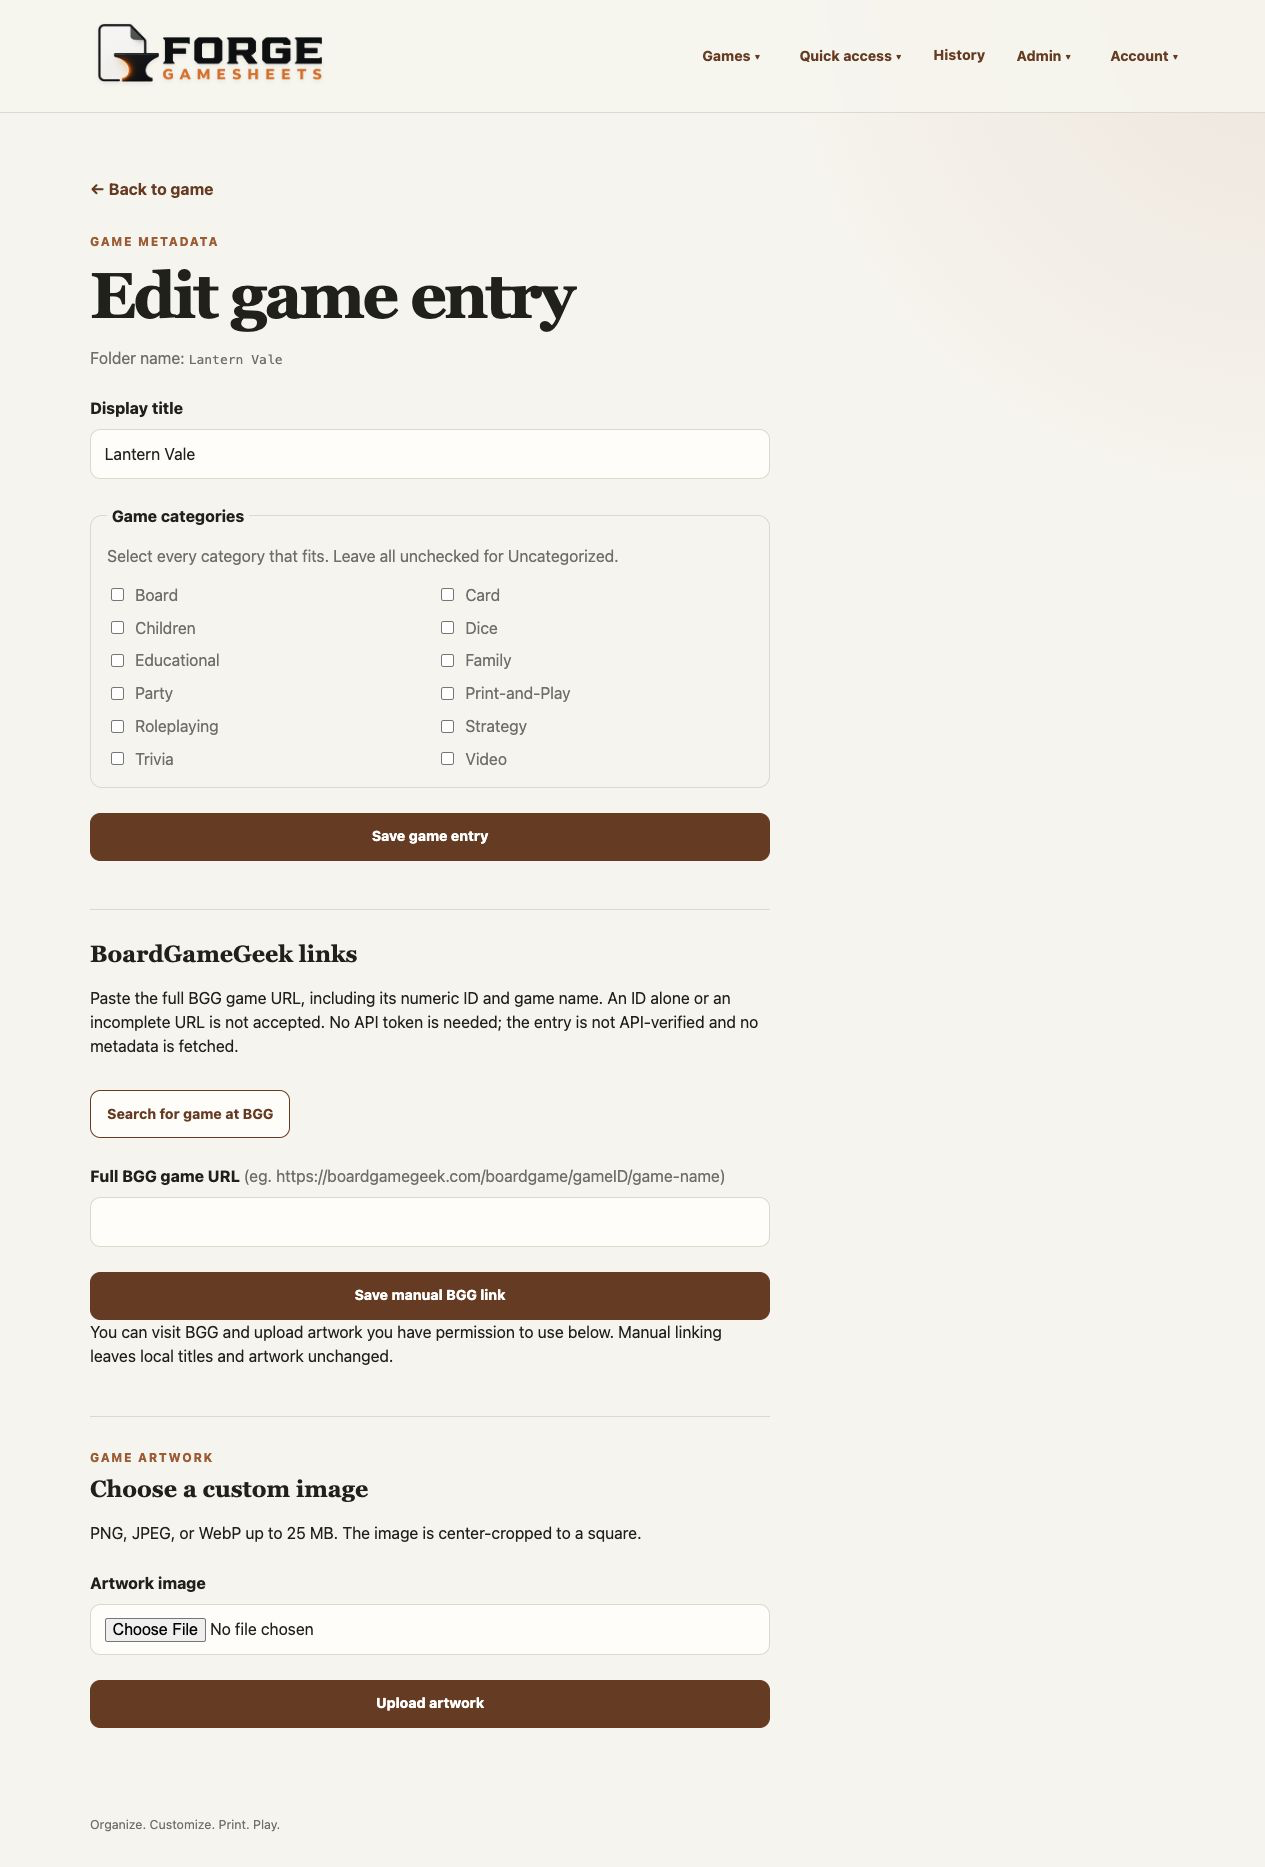
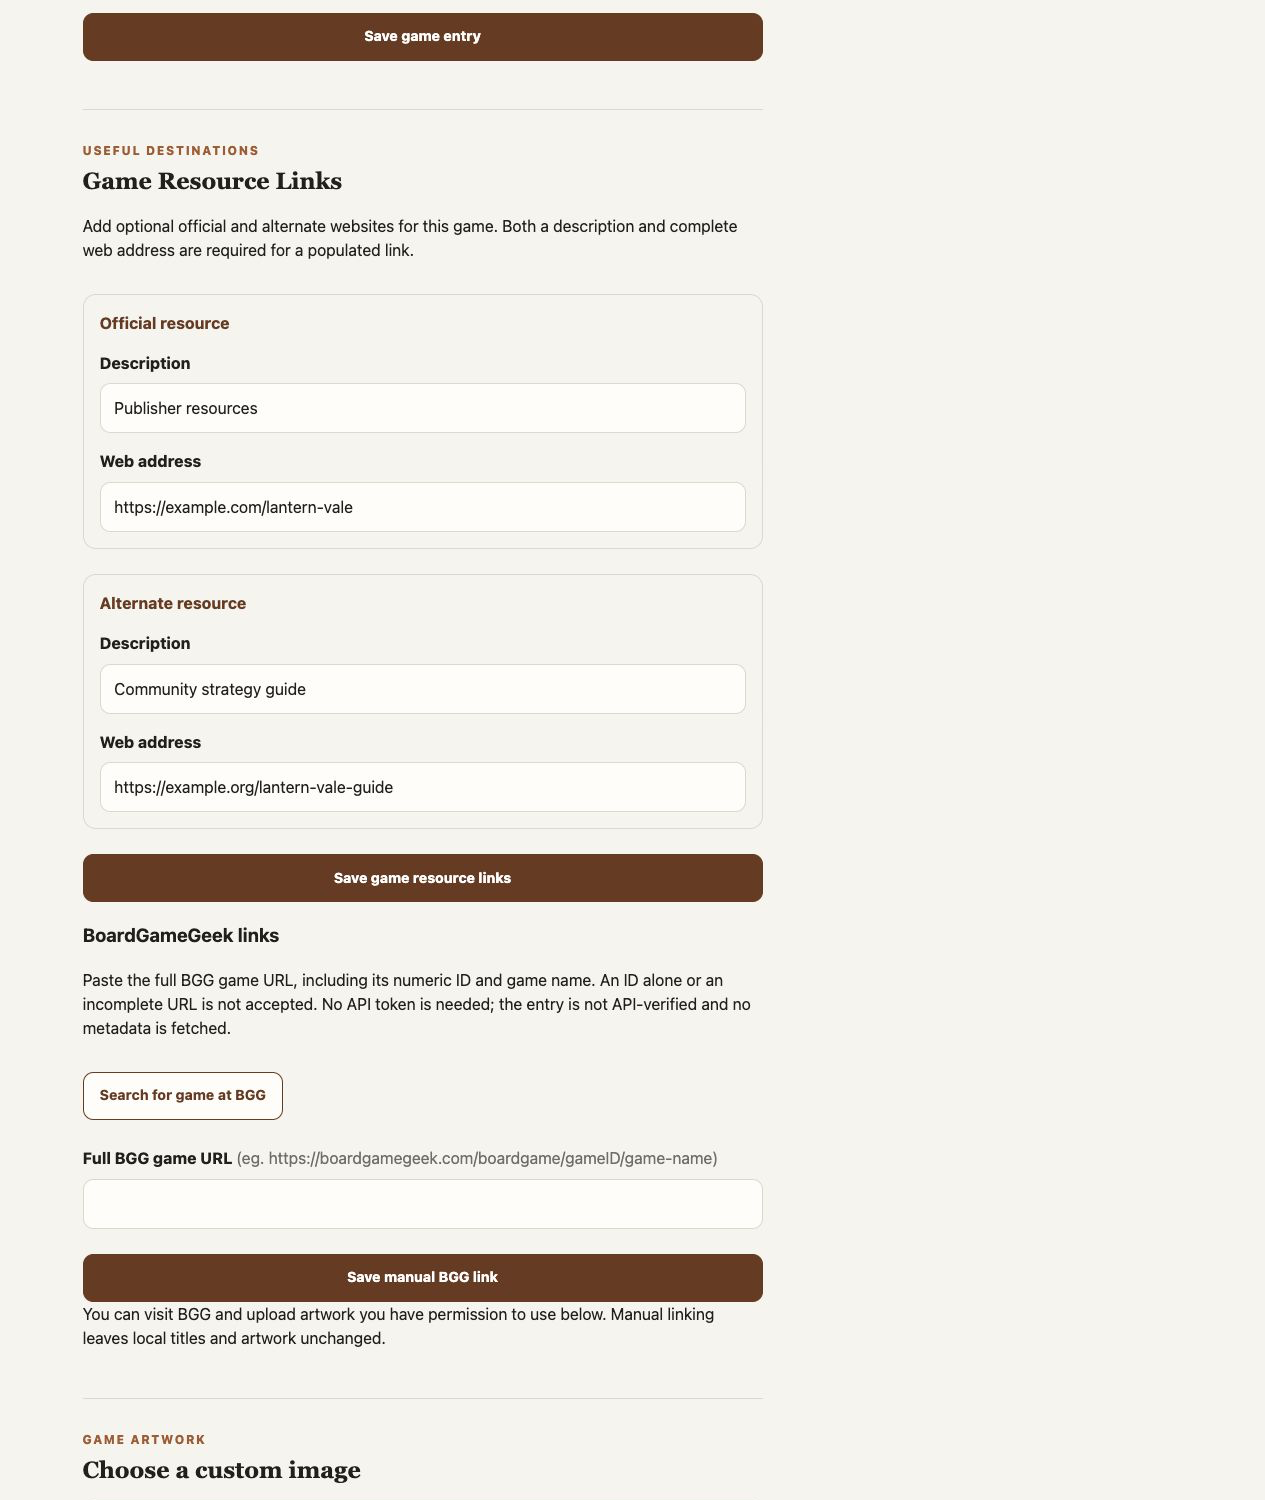
Refresh README workflow screenshots

diff --git a/tests/test_documentation.py b/tests/test_documentation.py
@@ -86,13 +86,14 @@ def test_readme_gallery_images_are_valid_and_cover_current_workflows():
     text = (ROOT / "README.md").read_text()
     gallery = text.split("## Screenshots", 1)[1].split("## Requirements", 1)[0]
     images = set(re.findall(r"docs/images/[\w-]+\.png", gallery))
-    assert len(images) == 9
+    assert len(images) == 10
     for name in (
         "users",
         "assign-categories",
         "bgg-manual",
         "desktop-navigation",
         "reprint-maintenance",
+        "activity-history",
     ):
         assert f"docs/images/{name}.png" in images
     for path in images:

diff --git a/README.md b/README.md
@@ -36,7 +36,8 @@ a cloud service, or store PDF contents in its database.
 - Optional local Admin, Contributor, and Reader accounts with per-resource QR restrictions
 - Token-free manual BGG game URLs, Game/Files links, and external title search
 - All Games, category, and Uncategorized browsing
-- Favorites, up to ten pinned homepage resources, Recent, and use history
+- Favorites, up to ten pinned homepage resources, Recent, and paginated activity
+  history for scans, content changes, and PDF use
 - Configurable library footer, Recent limit, and History time zone
 - Manual rescans with safe partial-scan and missing-file behavior
 - Grouped desktop dropdowns and a compact-screen hamburger menu
@@ -52,17 +53,17 @@ and demo accounts. No private library content or third-party game files are
 included. These views show authentication enabled; available controls depend on
 the signed-in role. Click an image to inspect it at full size.
 
-| Library and categories | Game resources |
+| Library, pins, and categories | Game resources |
 | --- | --- |
 | ![Forge GameSheets library showing pinned resources and category cards](docs/images/library-overview.png) | ![An invented game's rules, score sheets, references, and resource actions](docs/images/game-resources.png) |
 | **Bulk game categories** | **Bulk FORGE Reprint maintenance** |
-| ![Selected demo games and categories with bulk operations and explanatory help](docs/images/assign-categories.png) | ![Admin utility showing current, missing, stale, and unavailable reprints with bulk operation choices](docs/images/reprint-maintenance.png) |
-| **User Accounts** | **Manual BoardGameGeek linking** |
-| ![Admin account controls explaining roles and account management](docs/images/users.png) | ![Token-free BGG search button and empty full-game-URL field](docs/images/bgg-manual.png) |
-| **Integration and build details** | **Grouped desktop navigation** |
-| ![Settings showing the optional API disabled and a local development build](docs/images/settings-build.png) | ![Admin dropdown with FORGE Reprints, Settings, and User Accounts](docs/images/desktop-navigation.png) |
-| **Mobile navigation** | |
-| <img src="docs/images/mobile-navigation.png" alt="Phone menu with Games, Quick access, History, Admin, and Account groups" width="200"> | |
+| ![Demo games with current categories and bulk assignment controls](docs/images/assign-categories.png) | ![Admin utility showing reprint inventory, guided bulk operations, and recent operation results](docs/images/reprint-maintenance.png) |
+| **User Accounts** | **Game Resource Links and BoardGameGeek** |
+| ![Admin account controls explaining roles and account management](docs/images/users.png) | ![Game editing with official and alternate resource links and manual BoardGameGeek linking](docs/images/bgg-manual.png) |
+| **Activity History** | **Integration and build details** |
+| ![Activity history showing summarized scans, content changes, favorites, pins, and PDF use](docs/images/activity-history.png) | ![Settings showing optional integration status and complete local build identification](docs/images/settings-build.png) |
+| **Grouped desktop navigation** | **Mobile navigation** |
+| ![Admin dropdown with FORGE Reprints, Settings, and User Accounts](docs/images/desktop-navigation.png) | <img src="docs/images/mobile-navigation.png" alt="Phone menu with Games, Quick access, History, Admin, and Account groups" width="200"> |
 
 The [screenshot maintenance guide](docs/SCREENSHOTS.md) records the capture
 procedure and review requirements. The former Settings and FORGE Reprint images
@@ -296,6 +297,11 @@ file, interruption recovery, and individual skip/failure details. Source PDFs ar
 never changed. Every generated copy uses its resource's stable QR address, so
 changing access does not require generating another QR code.
 
+Validated generated copies are recorded in SQLite, allowing the maintenance
+inventory to use fast database aggregation and a single directory scan instead
+of reopening every generated PDF on each visit. The first inventory visit after
+this upgrade performs a one-time compatibility pass for existing reprints.
+
 Upgrading from the earlier test-only secure-link design retires `/s/…` QR
 addresses. Use **Create or refresh all reprints** once after this upgrade to
 replace those experimental copies with the stable `/r/{resource-id}` address.
@@ -378,7 +384,9 @@ The library mount is read-only. Forge GameSheets never edits source PDFs.
   from the web UI is not implemented; artwork upload is available to editors.
 - **Audit visibility:** Admins can review recent account security events
   with actor and target names. This is bounded activity logging, not a complete
-  audit trail.
+  audit trail. General Activity History is retained in SQLite and displayed 50
+  events at a time; each library scan creates one aggregate event rather than
+  one event per discovered file.
 
 Implementation review and publication safeguards are described separately in
 [Development and security](#development-and-security).

diff --git a/docs/SCREENSHOTS.md b/docs/SCREENSHOTS.md
@@ -2,16 +2,17 @@
 
 ## Current set
 
-Captured September 8, 2026 from application revision `00381e8`, with only pending
-documentation edits. The demo uses invented games (Lantern Vale, Pebble Parade,
+Captured September 11, 2026 from the local application at revision
+`6eaab8a-dirty`. The demo uses invented games (Lantern Vale, Pebble Parade,
 Pocket Orchard, Starship Signals), original sample PDFs and simple cover art,
-and disposable demo accounts. It has no BGG token or real game association.
-The build panel correctly says Development build: this was a local source run,
-not a published-container verification.
+example-only resource URLs, and disposable demo accounts. It has no BGG token or
+real game association. The build panel correctly says Local development build:
+this was a local source run, not a published-container verification.
 
 The gallery contains library-overview, game-resources, assign-categories,
-reprint-maintenance, users, bgg-manual, settings-build, desktop-navigation, and
-mobile-navigation PNGs in `docs/images/`. The obsolete `settings.png` and
+reprint-maintenance, users, bgg-manual, activity-history, settings-build,
+desktop-navigation, and mobile-navigation PNGs in `docs/images/`. The obsolete
+`settings.png` and
 `forge-reprint.png` captures were removed when global QR guest access and secure
 token sharing were replaced by public-by-default, per-resource QR restrictions.
 Capture replacement Settings and FORGE Reprint images after the interface is
@@ -26,8 +27,9 @@ finalized.
 2. Bootstrap a disposable Admin and Reader in that demo only. Add a few category
    assignments and pinned resources. Leave all passphrase fields empty in captures.
 3. Capture the gallery routes: `/`, `/games/{demo-id}`, `/assign-categories`,
-   `/r/{demo-resource-id}`, `/settings/reprints`, `/settings`, `/settings/users`, and
-   `/games/{demo-id}/edit`. Discover IDs from the demo; do not assume production IDs.
+   `/r/{demo-resource-id}`, `/history`, `/settings/reprints`, `/settings`,
+   `/settings/users`, and `/games/{demo-id}/edit`. Discover IDs from the demo;
+   do not assume production IDs.
 4. On bulk categories, select games and a category to illustrate the controls;
    no change need be applied. Generate an ordinary demo reprint to show its ready
    state. Do not expose QR links from a live installation. Leave the BGG input
@@ -68,12 +70,11 @@ or GitHub Actions would reduce dependency on interactive tooling. That job is
 **not implemented** by this documentation refresh. Pin the browser/environment
 and use the same synthetic fixture if it is added; images still need human review.
 
-## Refresh verification — September 8, 2026
+## Refresh verification — September 11, 2026
 
-- All eleven saved gallery images inspected; desktop and phone navigation captured.
-- Local rendered README gallery reviewed with all eleven images loading.
-- Documentation tests: 9 passed. Ruff and `git diff --check`: passed.
-- Full Mac suite: 598 passed, 1 failed. The existing scanner case-sensitivity
-  fixture cannot create distinct `Alpha` and `alpha` directories on this host.
-  No scanner code or test was changed as part of this refresh.
-- No live library used and no guest token exposed.
+- All ten README gallery images inspected, including the refreshed desktop views
+  and the existing phone navigation capture.
+- Documentation tests: 10 passed. Ruff and `git diff --check`: passed.
+- Full Mac suite: 637 passed, 1 skipped.
+- Only disposable fictional library data and example-only URLs were used. No live
+  library, real account details, or guest token was captured.
